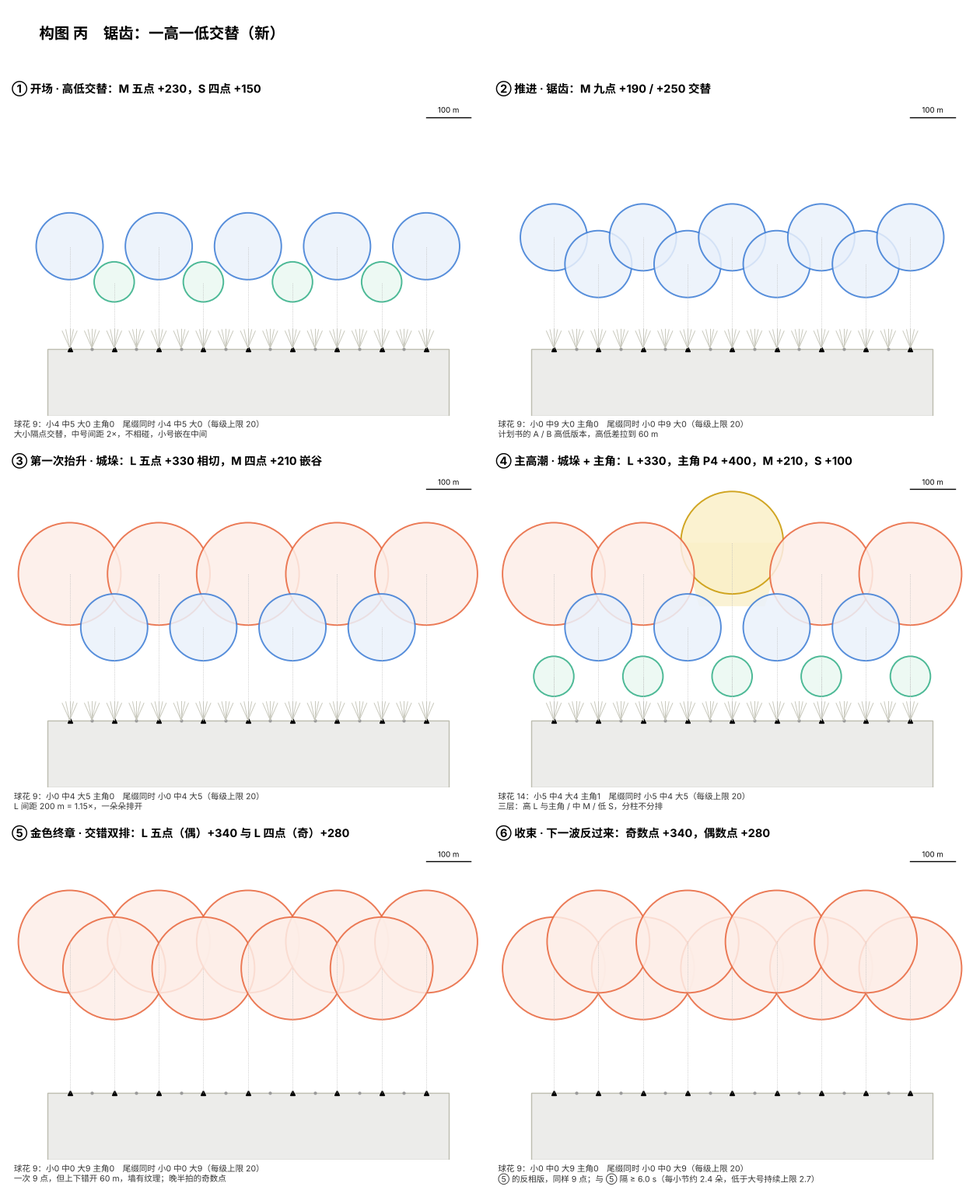
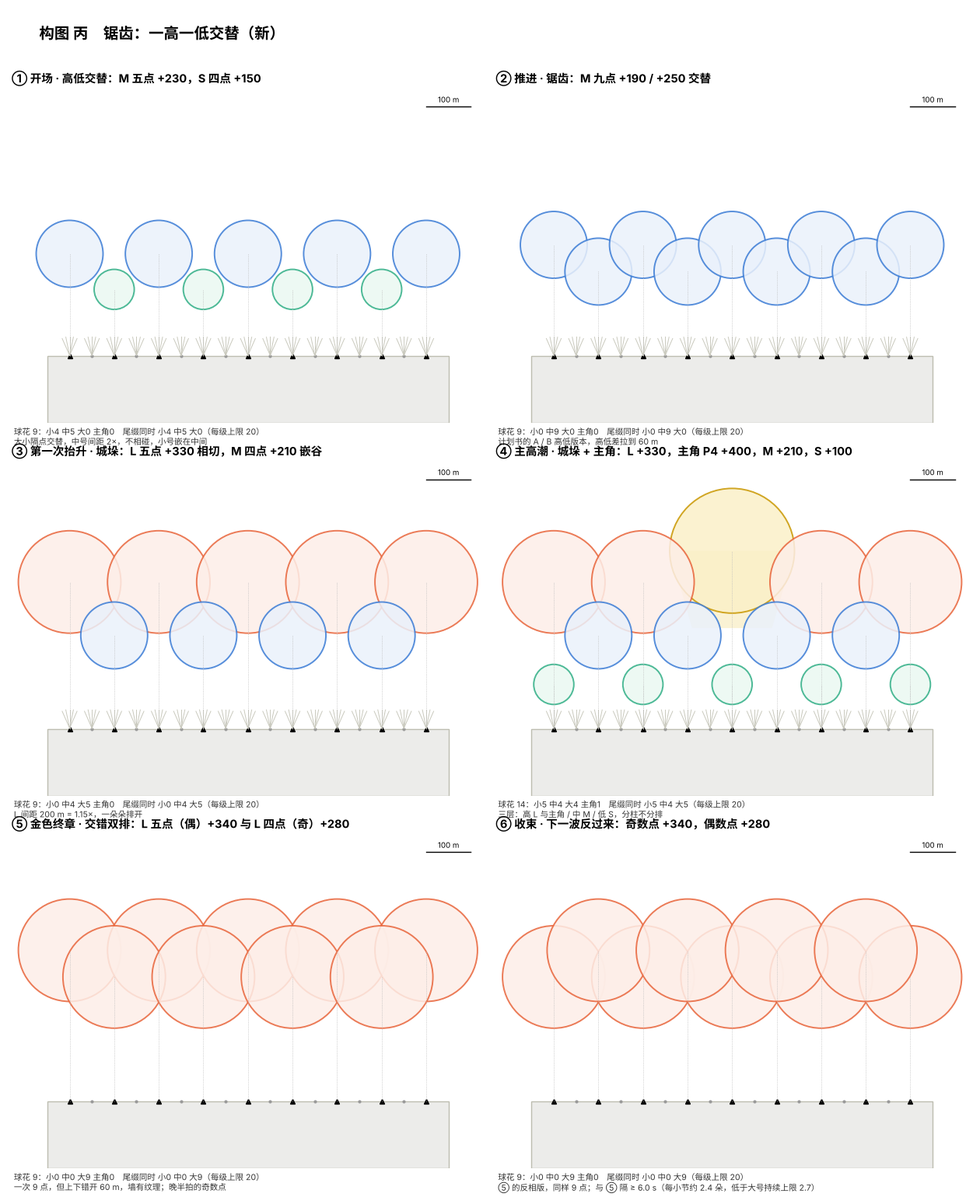
docs: 跨年秀编排宪章 v1.2——主角 280–300 m、一个导演表、大面片朝向、丙的高低错落、R04 上限验证窗口
- 计划书（claude.ai 文档）新开「总纲」页作状态与批注入口，仓库宪章为完整版
- 构图三版.py 加主角方案图，三版主角改画 280 m
- 状态清单给 24 补条目层 PositionOffset 读回、给烘焙器补 Screen Alignment 选项（未测不动）

Claude-Session: https://claude.ai/code/session_016FFn4zczxLD2sAAbGG2wDH

diff --git a/analysis/scripts/构图三版.py b/analysis/scripts/构图三版.py
@@ -3,7 +3,7 @@
 画同一批「时刻」的三种构图：甲 = 计划书分层行（基线，主角只换种类不放大）；
 乙 = 山形，中心大、两翼递减；丙 = 锯齿，一高一低交替。
 尺寸 / 高度（相对坝顶）沿计划书与用户 10-08：S 90 m +150（低层 +80）、M 150 m +210、L 230 m +330；
-主角 = 金垂柳，用 L 的原尺寸 230 m，只放高（+400）、只出现 5 次，不放大（用户 10-11「420 太大」）。
+主角 = 金垂柳，三版里先画 280 m（用户 10-11 01:52：280–300 m 都行、同屏 1 个或 3 个可试；420 m 太大已撤回），+400，出现很少；1 个 / 3 个的比较见 hero_options()。
 输出 协作/跨年秀编排宪章_图/构图_甲|乙|丙.png。示意，不是 UE 回放。"""
 import math
 from pathlib import Path
@@ -16,10 +16,10 @@ plt.rcParams['font.sans-serif'] = ['Noto Sans CJK SC', 'WenQuanYi Zen Hei', 'Dej
 plt.rcParams['axes.unicode_minus'] = False
 OUT = Path(__file__).resolve().parents[2] / '协作/跨年秀编排宪章_图'
 X = lambda i: (i - 4) * 100          # P0..P8，弧长间距 100 m（计划书正面画法）
-DIA = {'S': 90, 'M': 150, 'L': 230, 'H': 230}
-COL = {'S': '#2fae85', 'M': '#3a7bd5', 'L': '#e8643a', 'H': '#c99700'}
-FILL = {'S': '#eaf8f2', 'M': '#eaf1fb', 'L': '#fdeee8', 'H': '#fbf0c8'}
-NAME = {'S': '小', 'M': '中', 'L': '大', 'H': '主角'}
+DIA = {'S': 90, 'M': 150, 'L': 230, 'H': 230, 'H280': 280, 'H300': 300}
+COL = {'S': '#2fae85', 'M': '#3a7bd5', 'L': '#e8643a', 'H': '#c99700', 'H280': '#c99700', 'H300': '#c99700'}
+FILL = {'S': '#eaf8f2', 'M': '#eaf1fb', 'L': '#fdeee8', 'H': '#fbf0c8', 'H280': '#fbf0c8', 'H300': '#fbf0c8'}
+NAME = {'S': '小', 'M': '中', 'L': '大', 'H': '主角', 'H280': '主角', 'H300': '主角'}
 
 
 def panel(ax, title, items, fan=True, note=''):
@@ -35,20 +35,21 @@ def panel(ax, title, items, fan=True, note=''):
             for a in (-26, -13, 0, 13, 26):
                 ax.plot([x0, x0 + 38 * math.sin(math.radians(a))], [2, 2 + 42 * math.cos(math.radians(a))], color='#c9c9bd', lw=0.7)
     # 先画大的再画小的，小的在上面
-    order = {'H': 0, 'L': 1, 'M': 2, 'S': 3}
+    order = {'H': 0, 'H280': 0, 'H300': 0, 'L': 1, 'M': 2, 'S': 3}
     for (xi, c, h) in sorted(items, key=lambda t: order[t[1]]):
         x, d = X(xi), DIA[c]
-        if c == 'H':
+        if c.startswith('H'):
             ax.add_patch(Polygon([(x - d / 2, h), (x + d / 2, h), (x + d * .32, h - d * .62), (x - d * .32, h - d * .62)], fc='#f6e3a1', ec='none', alpha=.45))
         ax.add_patch(Circle((x, h), d / 2, fc=FILL[c], ec=COL[c], lw=1.4, alpha=.85))
         ax.plot([x, x], [0, h], color='#bbb', lw=.6, ls=':')
-    ax.set_xlim(-530, 530); ax.set_ylim(-150, 560); ax.set_aspect('equal'); ax.axis('off')
-    n = {k: sum(1 for t in items if t[1] == k) for k in 'SMLH'}
+    ax.set_xlim(-530, 530); ax.set_ylim(-150, 600); ax.set_aspect('equal'); ax.axis('off')
+    n = {k: sum(1 for t in items if t[1] == k) for k in 'SML'}
+    n['H'] = sum(1 for t in items if t[1].startswith('H'))
     tails = {'小': n['S'], '中': n['M'], '大': n['L'] + n['H']}
     ax.set_title(title, fontsize=10.5, loc='left', fontweight='bold', x=0.0)
     s = f"球花 {sum(n.values())}：小{n['S']} 中{n['M']} 大{n['L']} 主角{n['H']}　尾缀同时 小{tails['小']} 中{tails['中']} 大{tails['大']}（每级上限 20）"
     ax.text(-525, -158, s + ('\n' + note if note else ''), fontsize=7.6, va='top', color='#333')
-    ax.plot([400, 500], [520, 520], color='k', lw=1); ax.text(450, 530, '100 m', ha='center', fontsize=7)
+    ax.plot([400, 500], [560, 560], color='k', lw=1); ax.text(450, 570, '100 m', ha='center', fontsize=7)
 
 
 def row(c, h, idx=range(9), alt=0):
@@ -69,7 +70,7 @@ A = [
  ('① 开场 · M 九点 1.5×，高低交替 ±15；S 低层四点', row('M', 210, alt=15) + [(i, 'S', 80) for i in (1, 3, 5, 7)], True, '计划书「开场三层」：中号一排 + 低层小银菊 + 全宽扇形'),
  ('② 连续展开 · M 九点一排，扇形铺底', row('M', 210), True, '每 4 秒一波，银白 / 金交替'),
  ('③ 第一次抬升 · M 九点 + L 三点压顶（P1/P4/P7）', row('M', 210) + [(i, 'L', 330) for i in (1, 4, 7)], True, '计划书 ⑦：大号在上、中号在下，各自成排'),
- ('④ 主高潮 · M 九点 + L 压顶，中心换主角（+400）+ S 低层', row('M', 210) + [(0, 'L', 330), (8, 'L', 330), (4, 'H', 400)] + [(i, 'S', 80) for i in (0, 2, 4, 6, 8)], True, '主角不放大，只放高、居中、金色垂裙'),
+ ('④ 主高潮 · M 九点 + L 压顶，中心换主角（+400）+ S 低层', row('M', 210) + [(0, 'L', 330), (8, 'L', 330), (4, 'H280', 400)] + [(i, 'S', 80) for i in (0, 2, 4, 6, 8)], True, '主角 280 m（用户 10-11 01:52：280–300 都行），放高、居中、金色垂裙'),
  ('⑤ 金色终章 · M 九点（金）+ S 五点金裂星（+150）', row('M', 210) + [(i, 'S', 150) for i in (0, 2, 4, 6, 8)], True, '计划书 ⑧'),
  ('⑥ 收束 · L 九点一排 2.3×（一波）', row('L', 330), False, '一波 9 点；下一波 ≥ 6.0 s（现成大号只有银彩菊一种，同种上限 10），见并发预算'),
 ]
@@ -80,7 +81,7 @@ B = [
  ('① 开场 · 拱形：M 九点，中心最高 +270、两端 +170', [(i, 'M', 170 + 100 * math.cos(math.pi / 2 * abs(i - 4) / 4)) for i in range(9)], True, '高度顺滑过渡，轮廓是一道拱；直径 / 间距仍 1.5×'),
  ('② 推进 · 斜阶：M 九点自左向右升 +150 → +270', [(i, 'M', 150 + 15 * i) for i in range(9)], True, '下一小节镜像成右低左高，一句「扫」'),
  ('③ 第一次抬升 · 山形：L +340 → M +270 → M +220 → S +160 → S +110', [(4, 'L', 340), (3, 'M', 270), (5, 'M', 270), (2, 'M', 220), (6, 'M', 220), (1, 'S', 160), (7, 'S', 160), (0, 'S', 110), (8, 'S', 110)], True, '大小跟位置走：看一眼就分得出三级'),
- ('④ 主高潮 · 主角居顶 +400，L 两侧 +330，M 递减，S 收边', [(4, 'H', 400), (2, 'L', 330), (6, 'L', 330), (3, 'M', 260), (5, 'M', 260), (1, 'M', 210), (7, 'M', 210), (0, 'S', 150), (8, 'S', 150)], True, '主角在山顶，两侧 L 呼应'),
+ ('④ 主高潮 · 主角居顶 +400，L 两侧 +330，M 递减，S 收边', [(4, 'H280', 400), (2, 'L', 330), (6, 'L', 330), (3, 'M', 260), (5, 'M', 260), (1, 'M', 210), (7, 'M', 210), (0, 'S', 150), (8, 'S', 150)], True, '主角在山顶，两侧 L 呼应'),
  ('⑤ 金色终章 · 双峰：L P2/P6，M 四点，S 三点', [(2, 'L', 330), (6, 'L', 330)] + [(i, 'M', 240) for i in (1, 3, 5, 7)] + [(i, 'S', 150) for i in (0, 4, 8)], True, '中心留谷，给下一发主角留位'),
  ('⑥ 收束 · 弧形墙：L 九点，中心 +340、两端 +290', [(i, 'L', 290 + 50 * math.cos(math.pi / 2 * abs(i - 4) / 4)) for i in range(9)], False, '同一波、9 点；下一波 ≥ 6.0 s（同种上限 10）'),
 ]
@@ -89,13 +90,31 @@ C = [
  ('① 开场 · 高低交替：M 五点 +230，S 四点 +150', [(i, 'M', 230) for i in (0, 2, 4, 6, 8)] + [(i, 'S', 150) for i in (1, 3, 5, 7)], True, '大小隔点交替，中号间距 2×，不相碰，小号嵌在中间'),
  ('② 推进 · 锯齿：M 九点 +190 / +250 交替', [(i, 'M', 250 if i % 2 == 0 else 190) for i in range(9)], True, '计划书的 A / B 高低版本，高低差拉到 60 m'),
  ('③ 第一次抬升 · 城垛：L 五点 +330 相切，M 四点 +210 嵌谷', [(i, 'L', 330) for i in (0, 2, 4, 6, 8)] + [(i, 'M', 210) for i in (1, 3, 5, 7)], True, 'L 间距 200 m = 1.15×，一朵朵排开'),
- ('④ 主高潮 · 城垛 + 主角：L +330，主角 P4 +400，M +210，S +100', [(i, 'L', 330) for i in (0, 2, 6, 8)] + [(4, 'H', 400)] + [(i, 'M', 210) for i in (1, 3, 5, 7)] + [(i, 'S', 100) for i in (0, 2, 4, 6, 8)], True, '三层：高 L 与主角 / 中 M / 低 S，分柱不分排'),
+ ('④ 主高潮 · 城垛 + 主角：L +330，主角 P4 +400，M +210，S +100', [(i, 'L', 330) for i in (0, 2, 6, 8)] + [(4, 'H280', 400)] + [(i, 'M', 210) for i in (1, 3, 5, 7)] + [(i, 'S', 100) for i in (0, 2, 4, 6, 8)], True, '三层：高 L 与主角 / 中 M / 低 S，分柱不分排'),
  ('⑤ 金色终章 · 交错双排：L 五点（偶）+340 与 L 四点（奇）+280', [(i, 'L', 340) for i in (0, 2, 4, 6, 8)] + [(i, 'L', 280) for i in (1, 3, 5, 7)], False, '一次 9 点，但上下错开 60 m，墙有纹理；晚半拍的奇数点'),
  ('⑥ 收束 · 下一波反过来：奇数点 +340，偶数点 +280', [(i, 'L', 280) for i in (0, 2, 4, 6, 8)] + [(i, 'L', 340) for i in (1, 3, 5, 7)], False, '⑤ 的反相版，同样 9 点；与 ⑤ 隔 ≥ 6.0 s（每小节约 2.4 朵，低于大号持续上限 2.7）'),
 ]
+# 主角方案（用户 10-11 01:52：280–300 m 都行，同屏 1 个或 3 个都可以试）
+def hero_options():
+    base = row('M', 210) + [(i, 'S', 80) for i in (0, 2, 4, 6, 8)]
+    P = [
+     ('① 一个主角 300 m · P4 +420（M 九点 + S 低层）', base + [(4, 'H300', 420)], True, '最稳妥：一个面片，位置居中；300 m = 3 格间距，两侧各留 1 个 L 位'),
+     ('② 三个主角 280 m · P1 / P4 / P7 相切 +400 / +430 / +400', base + [(1, 'H280', 400), (4, 'H280', 430), (7, 'H280', 400)], True, '间距 300 m = 1.07×，刚好相切，三个互不压；中间高 30 m 成「品」字'),
+     ('③ 三个主角 280 m · P2 / P4 / P6 重叠 +380 / +440 / +380', base + [(2, 'H280', 380), (4, 'H280', 440), (6, 'H280', 380)], True, '间距 200 m = 1.4×，叠 30%；半透明大面片 3 层叠，PC 可以，手机只留中间 1 个'),
+     ('④ 主角 + L 压两翼 · 主角 280 m P4 +420，L 230 P0 / P2 / P6 / P8 +330', base + [(4, 'H280', 420)] + [(i, 'L', 330) for i in (0, 2, 6, 8)], True, '一个主角 + 四个 L：主角靠高度和位置，不靠孤零零一个大面片'),
+    ]
+    fig, axs = plt.subplots(2, 2, figsize=(12.6, 10.4))
+    fig.suptitle('主角方案 · 280–300 m、1 个或 3 个（示意，正面正投影，100 m 比例尺）', fontsize=14, fontweight='bold', x=0.04, ha='left')
+    for ax, (t, it, fan, note) in zip(axs.flat, P):
+        panel(ax, t, it, fan, note)
+    plt.tight_layout(rect=(0, 0, 1, .96))
+    fig.savefig(OUT / '主角方案.png', dpi=100, facecolor='white'); plt.close(fig)
+
+
 if __name__ == '__main__':
     OUT.mkdir(exist_ok=True)
     version('甲', '计划书分层行（基线，主角不放大）', A)
     version('乙', '山形：中心大、两翼递减（新）', B)
     version('丙', '锯齿：一高一低交替（新）', C)
+    hero_options()
     print('ok')

diff --git a/协作/跨年秀编排宪章.md b/协作/跨年秀编排宪章.md
@@ -1,6 +1,6 @@
-# 跨年烟花秀编排宪章（草案 v1.1）
+# 跨年烟花秀编排宪章（草案 v1.2）
 
-跨年秀（22）· 2026-10-11 · v1 按用户 00:52 的回答重写；v1.1 按用户 01:23 的回答改：主角回到 230 m、白墙用银彩菊、并发上限不动、三版构图待选
+跨年秀（22）· 2026-10-11 · v1.2 按用户 01:52 的回答改：主角 280–300 m（同屏 1 个或 3 个）、只有一个导演表（不分平台）、230 m 大号固定子模板可以做；**状态、待办和批注入口在计划书文档（claude.ai）的「总纲」页**，本文是它的完整版
 
 > **状态：草案，等用户批。** 批之前不约束任何人；R03 / R04 / 候选 A2 只作回滚样本，不修补（用户 10-11）。
 > 证据：R03 的诊断在 [编排审查 R03](编排审查_R03_2026-10-10.md)；导演结构在 [手游编排评审](../对话记录/对话框手游编排.md)；点位坐标和参考图比例在 [计划书](跨年烟花秀编排计划书.md)。
@@ -73,16 +73,33 @@
 
 | 级 | 花 | 直径 m | 开花高度（相对坝顶） | 直径 / 高度 | 画面里占几格 | 全场次数〔待定〕 |
 |---|---|---|---|---|---|---|
-| 主角 | 金垂柳 | **230（资源自带，不放大）** | **+400**（比 L 高 70 m） | 0.58 | 2.3 格 | 5 |
-| 大 L | 银彩菊（= 大号金芒菊，用户 10-11）；〔问题 1〕金芒菊 / 金蕊青柠星 / 多重菊的 230 m 大号固定子模板 | 230 | +330 | 0.70 | 2.3 格 | 80–110 |
+| 主角 | 金垂柳 | **280–300**（用户 10-11 01:52「都行」；固定子模板由你改） | **+400 ~ +420** | 0.7 | 2.8–3 格 | 1 个 × 5 次；或主高潮 / 终章各一组 3 个 |
+| 大 L | 银彩菊（= 大号金芒菊，用户 10-11）；金芒菊 / 金蕊青柠星 / 多重菊的 230 m 大号固定子模板（用户 10-11 01:52「可以做」） | 230 | +330 | 0.70 | 2.3 格 | 80–110 |
 | 中 M | 金芒菊、金蕊青柠星、多重菊、金曜菊、金锦菊、绿牡丹、彩千轮 | 150 | +210 | 0.71 | 1.5 格 | 150–200 |
 | 小 S | 小银菊、金裂星、爆裂星、点灭星、小青柠、橙辉星 | 90 | +150；低层 +80 | 0.6 | 0.9 格 | 120–160 |
 | 前台 F | 专用小花 | 24–40 | 花顶 ≤ 145 | — | — | 沿用计划书 |
 
-- **主角靠「稀少 + 位置 + 垂裙」成立，不靠放大。** 金垂柳本来就有长垂裙（裙摆约 0.6 直径）；放在居中最高点、前后各留一小节静、前面有 7.4 s 的大尾缀当预告。想再大，是改它的固定子模板缩放（你的事）；我先按 230 排，将来放大只改一个数。
-- 这里的「大 L」只有**银彩菊**是现成的 230 m 资源。你说的 200 多米的金芒菊 / 金蕊青柠星 / 多彩菊，在 R03 基础表里是 **150 m 的中号资源**（名字里写 150 m）。要让它们当 L 用，需要在固定子模板里做 230 m 的大号版本（同一个 ResourceFX、放大、升高；**不新增资源**）——但它们和中号版**共用同一个 10 的实例上限**（上限在资源上，不在子模板上）。
+- **主角靠「稀少 + 位置 + 垂裙」成立，大小 280–300 m 都行**（用户 10-11 01:52），同屏 **1 个或 3 个**都可以试，图 `跨年秀编排宪章_图/主角方案.png`：① 1 × 300 m（P4 +420）；② 3 × 280 m 相切（P1/P4/P7，+400/+430/+400，间距 300 m = 1.07×）；③ 3 × 280 m 重叠（P2/P4/P6，间距 200 m = 1.4×，PC 才行）；④ 1 × 280 m + 四个 L 压两翼。用三个时，「全场 5 次」改成主高潮 / 终章各一组 3 个、其余单个。**改尺寸 / 高度后 D 要重量**（现在 7.3651 s 是 410 m 的 GoldKamuro）。
+- 这里的「大 L」现成只有**银彩菊**一种 230 m 资源。你说的 200 多米的金芒菊 / 金蕊青柠星 / 多彩菊，在 R03 基础表里是 **150 m 的中号资源**。**用户 10-11 01:52：230 m 大号固定子模板「可以做」**——同一个 ResourceFX、放大、升高，不新增资源；它们和中号版**共用同一个 10 的实例上限**（上限在资源上，不在子模板上）。做完把名字和直径告诉我，L 就有 4 种，白墙波间隔从 6.0 s 降到 3.7 s（第 6.3 节）。
 - 高度相对坝顶 +150 / +210 / +330 就是你 10-08 的数；R03 用的 190 / 265 / 410 要改回来。低层 +80 只给小银菊用。
 
+
+### 2.1b 主角的大面片：转镜头会跟着转（用户 10-11 01:52）
+
+用户观察：金垂柳现在是一张面朝摄像机的片，特别大时玩家转镜头，片会跟着转，很怪。**我没看到画面，下面是机理推断，没有 UE 实测〔待测〕。** 烘焙器的大面片发射器 Screen Alignment 写死 `Rectangle`（`tool/src/js/66_fwlcascade.js:44`、`68_lowframe.js:179`），它是**平行于屏幕**的：原地转镜头，面片朝向跟着屏幕转；面片大到占半个屏幕，就像一张贴在屏幕上的纸，花内部也没有视差。
+
+| 办法 | 做法 | 代价 / 风险 |
+|---|---|---|
+| A Facing Camera Position | Cascade 里该发射器 Screen Alignment 选一项（导入规范 `spec/cascade_params_v1.md` 已列这个选项）；朝向由相机**位置**定，原地转镜头不转，走动才绕着转 | 〔待测〕垂柳要 X、Y 分开缩放，这个对齐方式下是否还生效、Pivot 是否对；烘焙器要加选项（共享文件，先认领） |
+| B 景深错层 | 三个主角前后错开 60–100 m（条目 `PositionOffset.Y`） | 零成本，只改编排；只对 3 个有用 |
+| C 核 + 垂裙 | 主角拆成较小的面片核 + GPU 粒子垂裙（真 3D） | 烘焙器要新做；手机不行；底层，现在不做 |
+| D 轴锁定 | Axis Lock 固定朝向观众区 | 烘焙器不导出；侧着看变一条线；只在观看位置固定时才考虑 |
+
+**建议 A + B 先试**（A 是 UE 里的一个下拉，B 是编排）。验证：放 1 个金垂柳，原地转镜头 90° 看；再把花那层改成 Facing Camera Position 的**测试副本**同样转一次；结果告诉我（变好 → 烘焙器加选项；没变 → 走 B；变形 → 走 B 再评 C）。
+
+### 2.1c 丙的高低错落改哪一层（用户 10-11 01:52）
+
+小幅错落（±30 m 内）改**编排模板条目**的 `PositionOffset.Z`，大差别换**固定子模板**的高度版本 `<花>_H<高度>`（你改）：条目偏移是整发（尾缀起点和爆点）一起抬，±30 m 以上尾缀会从半空才出现。三表每条条目有 `PositionOffset / RandomPositionRange / RotationOffset / RandomRotationRange / EffectScale / RandomScaleRatio`；R04 的固定子模板里，开花条目的 `PositionOffset` 就是开花点（金曜菊 Z = 267 m、金垂柳 Z = 408 m），尾缀条目的 `Roll` 是尾缀倾角，扇形用 `Roll` 展开束；**条目层和随机字段全是 0，没有 UE 实测记录**，排给 24 读回。规范补三条〔我的建议〕：① 高低错落用固定偏移（可复现、能对拍），不用随机；② 随机只给 S / M 的小幅度 ±10–15 m，不给主角和 L 白墙（墙要齐）；③ 角度只给扇形，球花不加（球花条目的 Roll 会让尾缀斜飞）。计划书已有的两条沿用：开场排「高度略有起伏」，前台「大小和高度的随机收在包络里」。
 
 ### 2.2 高、中、低配：收窄，不收比例
 
@@ -106,7 +123,7 @@
 |---|---|---|
 | L 排 | P0/P2/P4/P6/P8，1.15× 相切成排 | P0/P4/P8，0.58×，互不碰 |
 | M 排 | P1/P3/P5/P7 或 P2/P6 | P2/P6 |
-| 压顶 / 叠层 | 不叠；主角单独出现 | 不叠 |
+| 压顶 / 叠层 | 不叠；主角单独出现（用三个主角时手机只留中间 1 个） | 不叠 |
 | 扇形 | 只用中心件、≤5 束，不在花下面 | 不放，或只 B3/B4 各 1 束 |
 | 尾缀 | L 和主角有，M / S 无 | 只主角有 |
 
@@ -124,22 +141,19 @@
 | 每发射器 ≤ 50 个同时活着的小粒子，寿命短 | 序列贴图的花一个发射器只有 1 个大面片，不受限；**扇形**（11 筒 × 4–5 星 = 44–55 颗，每颗还带尾火花）、彗星、尾缀火花受限 | 扇形是手机上最贵的东西，先减它；手机只用扇形中心件，束数 ≤ 5 |
 | 每系统 ≤ 3 发射器 | 烘焙器一层 = 一个发射器 | 金蕊青柠星（4 层）、多重菊（≥3）、彩千轮（≥2 组）**手机不用**（用户 10-11：不出 _L 版，没时间） |
 
-### 3.2 一个导演蓝图怎么配（用户 10-11：所有平台一套导演）
+### 3.2 一个导演表，不分平台（用户 10-11 01:52：「只有一个导演表，不分平台」）
 
 ```
-BP_NewYearFireworks_ShowDirector            ← 全平台同一个蓝图
-├─ DefaultConfig            PlatformMask = PC(4)【主机 8 跟 PC，等你确认】
-│   └─ 三表：一张，条目带 Filter.MinQualityLevel（VeryLow = 低配核心 ⊂ Medium ⊂ High）
-└─ PlatformOverrides[0]     PlatformMask = Mobile(2)
-    └─ 三表：手机母版一张，同样三档嵌套；TotalDuration、音乐、倒计时、时间轴与 PC 完全相同
+BP_NewYearFireworks_ShowDirector            ← 全平台同一个蓝图、同一张三表
+└─ 三表：一张；每一条（子模板条目 / 编排模板条目 / 时序槽）带 Filter {PlatformFlags, MinQualityLevel}
+     PlatformFlags：全平台 14（= Mobile 2 + PC 4 + 主机 8）；手机不放的条目标 12   〔位序待 24 用 DebugPlatform 证实〕
+     MinQualityLevel：VeryLow（低配核心）⊂ Medium ⊂ High，嵌套；只有下限，所以档位必须嵌套
 ResourceFX（PC 表 / 手机表分开）
     FxSP / FxSP_Low / FxSP_High：同一个 FXResourceId 在不同画质解析成不同粒子（_H/_M/_L）
-    MaxInstanceNum：同种同时存在上限（现在球花 / 扇形 10、尾缀 20）——不动（用户 10-11）
+    MaxInstanceNum：同种同时存在上限（球花 / 扇形 10、尾缀 20）——不动（用户 10-11）
 ```
 
-三件事不混：**平台用 Config 分，画质用 Filter 分，换粒子用资源表分。** 一套导演不等于一张表：手机的母版里**时间轴相同**，条目少、用的花也少（第 3.3 节），所以手机母版是 PC 母版的一个子集再加手机专用约束。现在工作台把三档出成三套表、导演里任何时刻只有一档，运行时切不了画质；要改成「每平台一张表 + 嵌套 Filter」——这是编排demo（24）的活，我在状态清单里排。
-
-**手机观看距离 / 视角与 PC 相同**（用户 10-11），所以 S 小号在手机上也按 PC 的尺寸看；不做手机单独放大。
+**v1.1 写的「DefaultConfig 管 PC + PlatformOverrides[0] 管手机」作废。** 三件事不混：**平台用条目 PlatformFlags 分，画质用 MinQualityLevel 分，换粒子用资源表分。** 一个表 = 时间轴只有一份：手机条目是同一条时间轴上的子集，再加手机约束（第 3.3 节）。R04 现在每条都是 PlatformFlags 14 / VeryLow（即全放）；三档还是三套表、导演里任何时刻只有一档，运行时切不了画质 → 要改成「一张表 + 嵌套 Filter」，这是编排demo（24）的活，状态清单已排队。**手机观看距离 / 视角与 PC 相同**（用户 10-11），S 在手机上也按 PC 的尺寸看。
 
 先决条件：手机 ResourceFX 现在**没有** 3.0 的任何一个资源（10-10 读回），手机编排之前先要有手机粒子（烘焙器导 `cascade_mobile.json` → 导入器）。
 
@@ -205,10 +219,10 @@ R03 对比：主角不存在、L 27% 但成簇、M 51%、扇形 59%。
 
 | 级 | 花 | 性格（配方） | 角色 | 出场段 | 单独亮相 |
 |---|---|---|---|---|---|
-| 主角 | 金垂柳 | 锦冠大号（230 m），垂裙长、悬得久 | 事件（不放大，靠稀少 + 居中 + 垂裙） | 5 末、8 入口、10 ×2、12 末 | 12 末 |
-| M↑ | 金芒菊 | 单层金菊 + 芒，干净、亮 | 释放段 M 骨干、金墙；〔问题 1〕若有 230 m 大号子模板则当 L | 5、7、8、10 | 7 第一轮 |
-| M↑ | 金蕊青柠星 | 4 层：橙引 → 柠绿点星，金菊芯，紫白小点 | 高潮里层的「变化」；〔问题 1〕同上；**手机不用** | 8、10 | 8 bar 73（高频峰） |
-| M↑ | 多重菊 | 多芯同心 | 满构图里层；〔问题 1〕同上；**手机不用** | 8、10 | 10 |
+| 主角 | 金垂柳 | 锦冠大号（现 230 m，280–300 m 版由你做），垂裙长、悬得久 | 事件（靠稀少 + 居中 + 垂裙） | 5 末、8 入口、10 ×2、12 末 | 12 末 |
+| M↑ | 金芒菊 | 单层金菊 + 芒，干净、亮 | 释放段 M 骨干、金墙；有 230 m 大号子模板后也当 L | 5、7、8、10 | 7 第一轮 |
+| M↑ | 金蕊青柠星 | 4 层：橙引 → 柠绿点星，金菊芯，紫白小点 | 高潮里层的「变化」；有 230 m 版后也当 L；**手机不用** | 8、10 | 8 bar 73（高频峰） |
+| M↑ | 多重菊 | 多芯同心 | 满构图里层；有 230 m 版后也当 L；**手机不用** | 8、10 | 10 |
 | L | 银彩菊 | 银菊 + 点灭（大号金芒菊，用户 10-11） | 白墙、第一次抬升 | 5、8、11 | 11（白墙） |
 | M | 金曜菊 | 金菊 | M 排主力 | 2、5、7、10 | 2 第一排 |
 | M | 金锦菊 | 金 + 火花 | 推进的节拍点 | 3、7、9 | 3 |
@@ -308,9 +322,22 @@ R03 对比：主角不存在、L 27% 但成簇、M 51%、扇形 59%。
 
 **扇形的规则**（硬伤在这里）：同一资源同时 ≤ 10 束。一条 13 束的扫线用两个扇形资源交替（红彗星 7 + 银星 6，各 ≤ 10）；两条扫线间隔 ≥ 3 s，或换第三件（金扇中心件）。同一时刻只一条扫线。
 
-**还没证实的一件事**（要 1 分钟）：导演到底受不受 `MaxInstanceNum`、满了是拒还是挤？
-- 做法：在 UE 里从 R03 高档 120 s 附近开始播，数银星扇同时亮着的束数。
-- 判读：能数出 ≤ 10 = 上限生效，R03 那堆扇形是被挤掉的（所以你觉得扇形「卡顿 / 缺」）；能数出远大于 10 = 导演不受该上限，只受粒子系统实际的 spawn 成本。两种结果我的排法都不吃亏，只是后者里「扇形超限」不是画面问题而是性能问题。
+**还没证实的一件事**：导演到底受不受 `MaxInstanceNum`、满了是拒还是挤？（20 个资源全部 `bLimitByMaxInstanceNum = True`，10-10 读回。）
+
+**R04（R03 同）能测扇形，测不到球花和尾缀**（R04 球花最多同时 6、尾缀最多 10，没到 10 / 20）。R04 的 B 组 8 个点各放一把 13 束银扇（同一个资源 13 个实例，`Silver13` 子模板），几乎同刻出膛，设计预测 1 s 内 **104 束**：
+
+| 演出时间 | 音乐时间 | 那一刻 |
+|---|---|---|
+| **117.2 s**（最好找） | 107.2（主高潮入口） | B 组 8 点各一把 13 束银扇 |
+| 174.0 s / 182.9 s / 197.3 s | 164.0 / 172.9 / 187.3 | 同上 |
+| 红彗星另有 140.0 / 167.9 / 180.1 s | 130.0 / 157.9 / 170.1 | 1 s 内约 47 束（另一个资源，可对照） |
+
+判读（从 110 s 附近起播，看 117.2 s 那一刻）：
+- 看到 8 把完整的扇、共约 100 束 = 导演不受 10 的上限 → 扇形「超限」不是画面问题，是性能问题；
+- 只看到零星约 10 束 = 上限生效；先出的在、后出的没有 = 满了就**拒**；先出的没了、后出的在 = 满了就**挤**；
+- 介于中间 = 把看到的束数告诉我。
+
+球花 / 尾缀的上限 R04 里测不到：需要的话我出一个 30 s 测试节目（9 个 L 一波，3 s 后再一波，看第二波有没有、第一波有没有被挤掉），做法是复制 R04 三表只换时序，能不能一次过 8025 的导入检查我没验证过。**没测之前一律按「上限生效」排**（安全侧），这也是白墙按 6.0 s 一波的原因。
 
 ### 6.4 金扇
 
@@ -341,12 +368,12 @@ R03 对比：主角不存在、L 27% 但成簇、M 51%、扇形 59%。
 
 用户 10-11：「先把构图处理好，再出三个密度对比，同时出一版和 R04 的对比」。所以：
 
-1. **你选构图**（每个时刻用甲 / 乙 / 丙，第 2.0 节）。
-2. 我做**并发预算核对**：看你选的单元在 6.3 的上限里放不放得下，放不下的在选定构图里就地改（改波数 / 点数 / 种类），不留给后面。
-3. 我出逻辑方案（段 / 构图 / 层 / 开花时刻），跑体检；全过后出**三个密度预设 D1 / D2 / D3**（第 5.4 节）**和一版与 R04 的对比**（同一时间轴上：开花次、同屏曲线、尺寸份额、对拍、种类、并发峰值，并排）。
-4. 逻辑方案 → 三表：我写编译器（用 `基础模板与尺寸.json` 的 20 基础 + v16.0.8 命名 + 第 4 节构图语义）；编排demo（24）改「每平台一张表 + 嵌套 Filter」、导入、读回。已在状态清单排队，不让你转达。
-5. 资源侧（你 / 烘焙器）：尾缀终点改回 +150 / +210 / +330（不是 R03 的 190 / 265 / 410）、手机 3.0 粒子、金扇错开；〔视第 9 节问题 2〕230 m 的金芒菊等大号固定子模板。
-6. 你在游戏里看三个密度，选一个；再出中低配和手机（手机不出 _L 版，用户 10-11）。
+1. **你选构图**（每个时刻用甲 / 乙 / 丙，第 2.0 节）和**主角方案**（第 2.1 节：1 个还是 3 个，280 还是 300 m）。
+2. 我做**并发核对**：看选定的单元在 6.3 的上限里放不放得下，放不下的就地改（波数 / 点数 / 种类），不留给后面。
+3. 我出逻辑方案（段 / 构图 / 层 / 开花时刻），跑体检；全过后出**三个密度 D1 / D2 / D3**（第 5.4 节）**和一版与 R04 的对比**（同一时间轴上并排：开花次、同屏曲线、尺寸份额、对拍、种类、并发峰值）。
+4. 逻辑方案 → 三表：我写编译器（`基础模板与尺寸.json` 的 20 基础 + v16.0.8 命名 + 第 4 节构图语义）；编排demo（24）改「一张表 + 嵌套 Filter」、读发射器数、读回条目层 `PositionOffset`、导入。已在状态清单排队，不让你转达。
+5. 资源侧（你 / 烘焙器）：做 230 m 大号固定子模板（金芒菊 / 金蕊青柠星 / 多重菊）；主角 280–300 m 版（改后重量 D）；尾缀终点改回 +150 / +210 / +330（R03 现在是 190 / 265 / 410 m）；手机 3.0 粒子；金扇错开；主角面片 Screen Alignment 选项（视第 2.1b 节测试）。
+6. 你在游戏里看三个密度，选一个；再出中低配和手机（手机不出 _L 版）。
 
 ## 9. 已定 / 还要你定
 
@@ -356,23 +383,22 @@ R03 对比：主角不存在、L 27% 但成簇、M 51%、扇形 59%。
 |---|---|
 | 主题 | 计划书的十段（加倒计时、1:47 主高潮） |
 | 音乐偏移 | +5（演出 = 音乐 + 5） |
-| 主角 | 金垂柳（四尺玉），全场很少；**230 m、+400 m**（420 m 太大，撤回）〔等你确认这个数〕 |
-| 白墙 | 银彩菊（= 大号金芒菊） |
-| 手机粒子规范 | 每发射器**不能**超过 50 个同时活着的小粒子，寿命要短（原话打错，已更正） |
-| MaxInstanceNum | 不调；我选 α（换种）+ β（放宽波间隔）+ δ（低配减点） |
-| 平台 | 所有平台一套导演；手机观看视角与 PC 相同 |
-| 手机 _L 版 | 不出（没时间）；多层花手机不用 |
-| 顺序 | 先定构图，再出三个密度，同时出一版与 R04 对比 |
-| 修补 | R03 / R04 / A2 不修补，只作回滚样本 |
-| 密度 | 三个都看 |
+| 主角 | 金垂柳（四尺玉），很少出现；**280–300 m 都行，同屏 1 个或 3 个都可以试**（10-11 01:52，取代 230 / 420） |
+| 白墙 / 大号 | 银彩菊（= 大号金芒菊）；230 m 的金芒菊 / 金蕊青柠星 / 多重菊固定子模板**可以做**（10-11 01:52） |
+| 手机粒子规范 | 每发射器**不能超过** 50 个同时活着的小粒子，寿命要短 |
+| MaxInstanceNum | 不调；我选 α 换种 + β 放宽波间隔 + δ 低配减点 |
+| 导演 | **只有一个导演表，不分平台**（10-11 01:52）；手机视角与 PC 相同 |
+| 手机 _L 版 | 不出；多层花手机不用 |
+| 顺序 | 先构图，再编排；构图定后出 D1 / D2 / D3 + 一版 R04 对比 |
+| 旧编排 | R03 / R04 / A2 不修补，只作回滚样本 |
 
 ### 还要你定 / 答
 
-1. **构图**：开场 / 推进 / 抬升 / 主高潮 / 终章 / 收束，每个时刻用甲 / 乙 / 丙哪一版？（可混用；你没有偏好的我按 开场=甲、推进=甲、抬升=乙、主高潮=乙、终章=丙、收束=甲 排。）
-2. **L 是一种还是多种**：现在 230 m 大号只有银彩菊，白墙只能 2–3 波（6.0 s 一波）。要做金芒菊 / 金蕊青柠星 / 多重菊的 230 m 大号固定子模板吗？做了 L 有 4 种，白墙 3–4 波、主高潮里层也有变化；它们与中号版**共用同一个 10 实例上限**，所以同一刻不能 M 和 L 同种都放满。不做就按 6.0 s 排。
-3. **主角 230 m / +400 m** 可以吗？
-4. **一分钟 UE 测试**：数 R03 高档 120 s 附近银星扇同时亮着几束（第 6.3 节）。谁做？（我没法在云端做；也可以排给编排demo（24）。）
-5. **主机**（Gamepad 位）跟 PC 同表吗？（我按「跟 PC」写。）
-6. 段落锚点（能量台阶）要你听过才算数；预览页上会标出来，你听的时候顺手判。
+1. **构图**：开场 / 推进 / 抬升 / 主高潮 / 终章 / 收束，每个时刻用甲 / 乙 / 丙哪一版？（默认：开场甲、推进甲、抬升乙、主高潮乙、终章丙、收束甲）
+2. **主角**：1 个还是 3 个、280 还是 300 m？（默认：1 个 300 m；主高潮试 3 个 280 m 相切）
+3. 230 m 大号子模板做完，把**名字和直径**告诉我；主角放大后重量开花延迟 D。
+4. **晚点验证两件事**：① R04 演出 117.2 s 数银扇束数（第 6.3 节）；② 主角面片改 Facing Camera Position 对比（第 2.1b 节）。
+5. 要不要我出球花 / 尾缀上限测试节目？
+6. 段落锚点（能量台阶）要你听过才算数；预览页上会标出来。
 
 不用你答、我直接做的：对拍、种类出场表、尾缀倒推、体检脚本、模板链命名的落地。

diff --git a/仓库梳理.md b/仓库梳理.md
@@ -76,7 +76,7 @@
 | `协作/编排审查_云端v3_2026-10-09.md` | ✅ | 对照 10-09 最新规范审查云端 front-low-v3-7pt 编排：规范性错误、结构问题、改法（对话框22 10-09） |
 | `协作/编排候选A_汪洋与浩渺.md` | ✅ | 候选 A2 方案文档：尾缀说明、烟花倒计时、叠层高潮构图、段落意图、音乐锚点、构图草图、17 点连扫与对扫、三档点集、并发、和旧版差异、还差什么（对话框22 10-09，逻辑方案，未 UE 验证）；数据在 `协作/编排demo/候选A/` |
 | `协作/编排审查_R03_2026-10-10.md` | ✅ | 审查编排demo（24）的 R03：工程好、编排差的证据（对拍、份额、种类、密度、同刻、高度）与用户七条观察的逐条核实（对话框22 10-10） |
-| `协作/跨年秀编排宪章.md`、`协作/跨年秀编排宪章_图/` | 草案 | 跨年秀编排宪章 v1.1：计划书十段 + 主高潮、四级尺寸（主角 230 m / +400）、三版构图图（甲 / 乙 / 丙，`构图_*.png`）、并发预算（上限不调）、一套导演、手机配置与可用效果、模板链命名、种类编排与倒退卡点、三档分配、体检指标；用户批前不约束（对话框22 10-11） |
+| `协作/跨年秀编排宪章.md`、`协作/跨年秀编排宪章_图/` | 草案 | 跨年秀编排宪章 v1.2：计划书十段 + 主高潮、四级尺寸（主角 280–300 m / +400~420）、三版构图图（甲 / 乙 / 丙，`构图_*.png`）和主角方案图（`主角方案.png`）、并发预算（上限不调）、一个导演表不分平台、大面片朝向、手机配置与可用效果、模板链命名、种类编排与倒退卡点、三档分配、体检指标；用户批前不约束（对话框22 10-11） |
 | `协作/接续.md` | ✅ | 定时接续会话的步骤（暂停中） |
 | `协作/走查_4.2_2026-10-02.md`、`协作/4.0开工说明.md`、`协作/烟花烘焙器交互设计草稿.md`、`协作/复盘_1.0到3.7画面对照.md` | 📚 | 已完成的走查 / 计划 / 草稿 |
 | `spec/` | ✅ | 引擎导入方案 `fwl.cascade/1`（`pipeline_v1.md`、`cascade_params_v1.md`、`examples/`）；UE 实测记录 `UE实测.md`；UE 实测包 `UE实测包/`（帧号 / 串扰 / 曝光 / Ramp，都还没在 UE 里跑；看什么见 `这次看什么_2026-10-05.md`） |
@@ -128,7 +128,7 @@
 | `analysis/music/` | ✅ | 音乐分析结果（`汪洋与浩渺_分析.json`：小节网格、kick / 起音、每秒能量、段落边界；由 `analysis/scripts/音乐分析.py` 从 WAV 检测，待试听，不含歌词） |
 | `analysis/scripts/编排体检.py` | ✅ | 把一份三表展开成逐发开花，量对拍率、尺寸份额、种类、密度、同刻多点、高度、开场收尾；R03 / R04 可重跑（对话框22 10-10） |
 | `analysis/scripts/并发预算.py` | ✅ | 按 ResourceFX 上限（球花 / 扇形 10、尾缀 20）算每级持续容量、最短波间隔，并扫三表同种同时活着数；寿命是设计假设，UE 未证实（对话框22 10-11） |
-| `analysis/scripts/构图三版.py` | ✅ | 画跨年秀三版构图（甲 / 乙 / 丙，各 6 个时刻，正面正投影，沿计划书比例）→ `协作/跨年秀编排宪章_图/构图_*.png`；示意，不是 UE 回放（对话框22 10-11） |
+| `analysis/scripts/构图三版.py` | ✅ | 画跨年秀三版构图（甲 / 乙 / 丙，各 6 个时刻，正面正投影，沿计划书比例）和主角方案（1 个 / 3 个）→ `协作/跨年秀编排宪章_图/构图_*.png`、`主角方案.png`；示意，不是 UE 回放（对话框22 10-11） |
 | `analysis/迭代/条目.json` | ✅ | 其余当前版本的条目和组合（鸿巢 HK10、金芒菊 JM4-40、青柠星 QN11、球形……），`review_to_baker.py` 读 |
 | `analysis/命名/` | ✅ | 参数名称表（中英文名、说明、模块、tier），模块表、词汇表；`改表_4.3.py` 重跑生成；面板的唯一来源 |
 | `analysis/我的配方/<效果>/` | ✅ | 你在烘焙器里「保存」的版本（`fwl.myrecipe/1`），AI 合入你的改动从这里读 |

diff --git a/交接.md b/交接.md
@@ -24,6 +24,10 @@
 
 ## 5. 会话日志（新的在上；每条写：做了什么、结果在哪、没做完的）
 
+### 2026-10-11 · 跨年秀（22） · 宪章 v1.2 + 计划书「总纲」页（批注入口）
+
+用户 10-11 01:52 答复 6 点：丙高低错落是不是改模板、规范要不要高低 / 角度随机；230 m 大号子模板可以做；主角 280–300 m、同屏 1 个或 3 个都可试，担心大面片转镜头跟着转；晚点验证、R04 能不能测上限；只有一个导演表不分平台；要把几轮对话、构图编排、待解决的事都列进计划书、用批注维护。做了：① claude.ai 计划书文档（`7af886ef-6a6f-4249-be42-00d66cedb354`，用户给的链接 `GBjCsBD4K4euGGQzpN1KiK`）新开「总纲 · 宪章 v1.2」页放在最前，旧页（10-07 前台 7 点版）保留；10 节：现在卡在哪（状态列可点选）/ 已定规则 / 三版构图 / 主角 / 编排 / 并发上限 / 一个导演表 / 决定日志 / 下一步与分工 / 资料位置；**以后接手先读这页和批注，再读仓库宪章**；变了的决定先写进总纲第 2、8 节再同步仓库。② 宪章 v1.2：3.2 改成「一张表，平台靠条目 PlatformFlags、画质靠 MinQualityLevel」，PlatformOverrides 作废；主角 280–300 m（1 或 3 个）；新增 2.1b（大面片朝向，建议 A Facing Camera Position + B 景深错层，未测）、2.1c（丙的高低错落：小幅改条目 PositionOffset.Z，大差别换固定子模板高度版本）；6.3 加 R04 验证窗口（演出 117.2 / 174.0 / 182.9 / 197.3 s，8 点各一把 13 束银扇，1 s 内 104 束，上限 10）。③ `构图三版.py` 加 `hero_options()`（`主角方案.png`），三版构图的主角改画 280 m。④ 状态清单给 24 补 ⑤ 条目层 PositionOffset 读回、给烘焙器补 ⑥ Screen Alignment 选项（未测前不动底层）。没做完：等用户选构图和主角方案（总纲第 1 行）；之后并发核对 → D1/D2/D3 + R04 对比 → 编译器。证据：全是三表展开和机理推断，没有 UE 实播。
+
 ### 2026-10-11 · 跨年秀（22） · 宪章 v1.1：先构图、三版构图、并发预算
 
 用户 10-11 01:23 答复 8 点：420 m 太大、构图不好看（要计划书比例，多做两版构图）；白墙用银彩菊；手机「不能超过」50 个同时活着的小粒子；`MaxInstanceNum` 不调（选省性能的方案）；所有平台一套导演；手机视角同 PC；不出手机 _L；先构图，再出三个密度和一版与 R04 的对比。做了：① `analysis/scripts/构图三版.py` 画甲（计划书分层行）/ 乙（山形）/ 丙（锯齿）各 6 个时刻，`协作/跨年秀编排宪章_图/构图_甲|乙|丙.png`，删了旧的 `01_比例高度正面推演.png`（主角 420 m）；② `analysis/scripts/并发预算.py`：按 ResourceFX 上限（球花 / 扇形 10、尾缀 20，手游编排评审 10-10 读回）扫三表同种同时活着数，R03 球花都不超、扇形 93 / 110 超；持续容量 小 6.8 / 中 4.6 / 大 1.7 朵每秒；L 只有银彩菊时 9 点一排波间隔 ≥ 6.0 s、M 每小节 ≤ 7 点；③ 宪章改 v1.1：主角 230/+400、白墙 2–3 波、一套导演、手机规范更正、第 6.3 节重写、第 9 节拆成「已定 / 还要定」。寿命是设计假设（尾缀 = D，球花开花后 小 3 / 中 4 / 大 6 / 金垂柳 7 s，扇形 3 s）；导演到底受不受上限、满了拒还是挤，**没证实**，需 UE 里数一次 R03 120 s 附近的银星扇束数。没做完：等用户选构图（第 9 节 1–5）；之后并发核对 → 逻辑方案 → D1/D2/D3 + R04 对比 → 编译器；给编排demo（24）的 4 条排队仍在状态清单。

diff --git a/更新记录.md b/更新记录.md
@@ -9,9 +9,9 @@
 - **多层花型模板（刷新就有，4.9.6–4.9.19）**：左栏「多层花型模板」30 个（新：光露、小割浮模様、万華鏡、染分），缩略图换成了渲染的；点开看引擎回放，告诉我要调哪些。 **金蕊柠**（4.9.47，JQ7）星后面那条很淡的青绿细线做进去了（09-29 青柠星你说过不要），不要就说一声我关掉。 HN2 你调过的动态（可选）：引菊 → 锦顶栏 ⋯ → 保存设置 →「连接仓库文件夹」选 `F:/FireWorksLab`，在资产栏「版本」里选你的版本点「保存」，我合进 HN2。
 - **UE 实测 4 项**（约 15 分钟，你只导入、录屏 / 截图、发给对话框21）：照着点 `spec/UE实测包/怎么测_一步一步.md`。鸿巢红点会闪已记 ✅。全部事项一屏看：`协作/全局看板.md`。 **编排v16审看**：保存关闭旧页后重开原文件；复制模板选小青柠→整套改用→保存新版，全部预览应只剩小青柠。
 
-## 2026-10-11 · 跨年秀（22）：编排宪章 v1.1 + 三版构图（等你选）
+## 2026-10-11 · 跨年秀（22）：计划书新页「总纲」+ 宪章 v1.2（等你选构图和主角）
 
-按你 01:23 的六点回答改：**先构图再编排**（单元决定每次点数和并发，换密度只改放几个单元）。主角撤回 420 m，回到计划书比例：金垂柳 230 m / +400 m、银彩菊（= 大号金芒菊）当白墙、L 230/+330、M 150/+210、S 90/+150。三版构图各 6 个时刻（开场 / 推进 / 抬升 / 主高潮 / 终章 / 收束）：`协作/跨年秀编排宪章_图/构图_甲.png`（计划书分层行）、`构图_乙.png`（山形）、`构图_丙.png`（锯齿 / 城垛 / 交错双排）。`MaxInstanceNum` 不调：R03 的球花都不超（峰值 2–6 / 上限 10），**扇形超（93 / 110）**；现成大号只有银彩菊，白墙只能 6.0 s 一波、收束窗口 2–3 波，M 排每小节只放得下 7 点；我选换种 + 放宽波间隔 + 低配减点，不新增资源。要你答的 6 件在 `协作/跨年秀编排宪章.md` 第 9 节（构图选哪版、L 要不要出多种 230 m 大号、主角 230/+400 行不行、谁做一分钟扇形束数测试……）。选完构图，我再出 D1 / D2 / D3 三个密度和一版与 R04 的对比。数字来自三表展开和设计假设，**没有 UE 实播**。
+按你 01:52 的回答：在 claude.ai 的计划书文档里新开了**「总纲 · 宪章 v1.2」页**（放在最前，旧页保留），10 节：现在卡在哪（状态列可点选）、已定规则、三版构图、主角、编排、并发上限、一个导演表、决定日志、下一步与分工、资料位置；你在行或词上批注，我每次接手先读它。要你定的在第 1 节表里：① 六个时刻各用甲 / 乙 / 丙哪版（默认 开场甲、推进甲、抬升乙、主高潮乙、终章丙、收束甲）；② 主角 1 个 300 m 还是 3 个 280 m（`协作/跨年秀编排宪章_图/主角方案.png`）；③ 230 m 大号子模板做完告诉我名字和直径；晚点：④ R04 演出 117.2 s 数银扇束数（上限验证，R04 测不到球花 / 尾缀）；⑤ 主角面片在 Cascade 里把 Screen Alignment 从 Rectangle 改成 Facing Camera Position 对比转镜头（我的推断，**没有 UE 实测**）。丙的高低错落：小幅（±30 m）改编排模板条目的高度偏移，大差别换固定子模板高度版本；球花不加角度。导演：一张表，平台靠条目 Filter。选完构图，我再出 D1 / D2 / D3 和一版与 R04 的对比。
 
 ## 2026-10-10 · 烘焙器4.9.68：自选目录、分类与 ZIP 留档
 

diff --git a/对话记录/对话框22.md b/对话记录/对话框22.md
@@ -167,3 +167,18 @@
 - [ ] 等用户选构图（宪章第 9 节问题 1–5）；选定后：并发核对 → 出 D1/D2/D3 三个密度对比 + 一版与 R04 的对比（用户 10-11 顺序：先构图，再密度，同时出 R04 对比）
 - [x] 提交并推送（3fce356a）
 
+### 用户 10-11 01:52
+
+「1.丙方案，高低错落的话，是你改模板对吗？规范里有效果需要有些高低与角度随机吗？2.可以做；3.主角可以大一点都行280-300m，同屏有3个都可以,可以试试一个或者，或者三个，或许构图会更稳；但我现在的金垂柳只是一个面朝摄像机的片，特别巨大的话，玩家转镜头 片会跟着玩家转，就会很奇怪，你有什么好的方案吗？4.我要晚点才能验证，有验证方法吗？现在r04的编排测不到上限吗？5.只有一个导演表，不分平台；6.https://claude.ai/artifact/GBjCsBD4K4euGGQzpN1KiK#98b2124d-a8bc，这是你之前做的计划书，你可以把我们上面的几轮对话与构图编排以及这次我要解决的所有事情都列到计划书里吗？我可以一直与你维护批注，这样你也不会忘记」
+
+拆解：
+- [x] 先记原话
+- [x] 1 丙的高低错落改哪层：三表条目有 PositionOffset / RandomPositionRange / RotationOffset / RandomRotationRange / EffectScale / RandomScaleRatio；R04 固定子模板里开花条目的 PositionOffset 就是开花点（金曜菊 Z=267 m、金垂柳 Z=408 m）、尾缀条目 Roll 是倾角、扇形 Roll 展开束，条目层与随机字段全 0；结论：小幅（±30 m）改编排模板条目 PositionOffset.Z，大差别换固定子模板 `<花>_H<高度>`；球花不加角度，随机只给 S/M 小幅度（建议，UE 未测）
+- [x] 2 230 m 大号固定子模板可以做 → 写入已定；L 做出后有 4 种，白墙波间隔 6.0 → 3.7 s
+- [x] 3 主角 280–300 m、1 个或 3 个：画 `主角方案.png`（①1×300 ②3×280 相切 ③3×280 重叠 ④1×280+4L）；三版构图图的主角改 280 m；大面片转镜头跟着转：烘焙器大面片写死 Screen Alignment=Rectangle（平行屏幕），建议 A 试 Facing Camera Position（UE 一个下拉）+ B 三个主角景深错层 60–100 m，C 核+垂裙粒子 / D 轴锁定备选；全部〔待测〕
+- [x] 4 验证方法：R04（R03 同）能测扇形不能测球花 / 尾缀；演出 117.2 / 174.0 / 182.9 / 197.3 s 8 点各一把 13 束银扇、1 s 内 104 束（上限 10）；判读 ≈100 束 = 不受上限、≈10 束 = 生效（先在后无 = 拒，先无后在 = 挤）；球花 / 尾缀测试节目可选
+- [x] 5 一个导演表不分平台 → 宪章 3.2 改：平台靠条目 PlatformFlags、画质靠 MinQualityLevel 嵌套，PlatformOverrides 方案作废；主机跟 PC 的问题随之消掉
+- [x] 6 把几轮对话 / 构图编排 / 待解决的事列进计划书：在 claude.ai 计划书文档新开「总纲」页（10 节：现在卡在哪、已定规则、三版构图、主角、编排、并发上限、一个导演表、决定日志、下一步与分工、资料位置），状态列可点选，批注留在对应行；旧页（10-07 前台 7 点版）保留
+- [x] 同步仓库：宪章 v1.2、`构图三版.py`（含 hero_options）、图、状态清单（给 24 的排队补条目层 PositionOffset 读回与 DebugPlatform）、交接、更新记录、仓库梳理
+- [ ] 等用户选构图、主角方案（总纲第 1 行）；选定后：并发核对 → D1/D2/D3 + R04 对比
+- [x] 提交并推送（HASH2）
